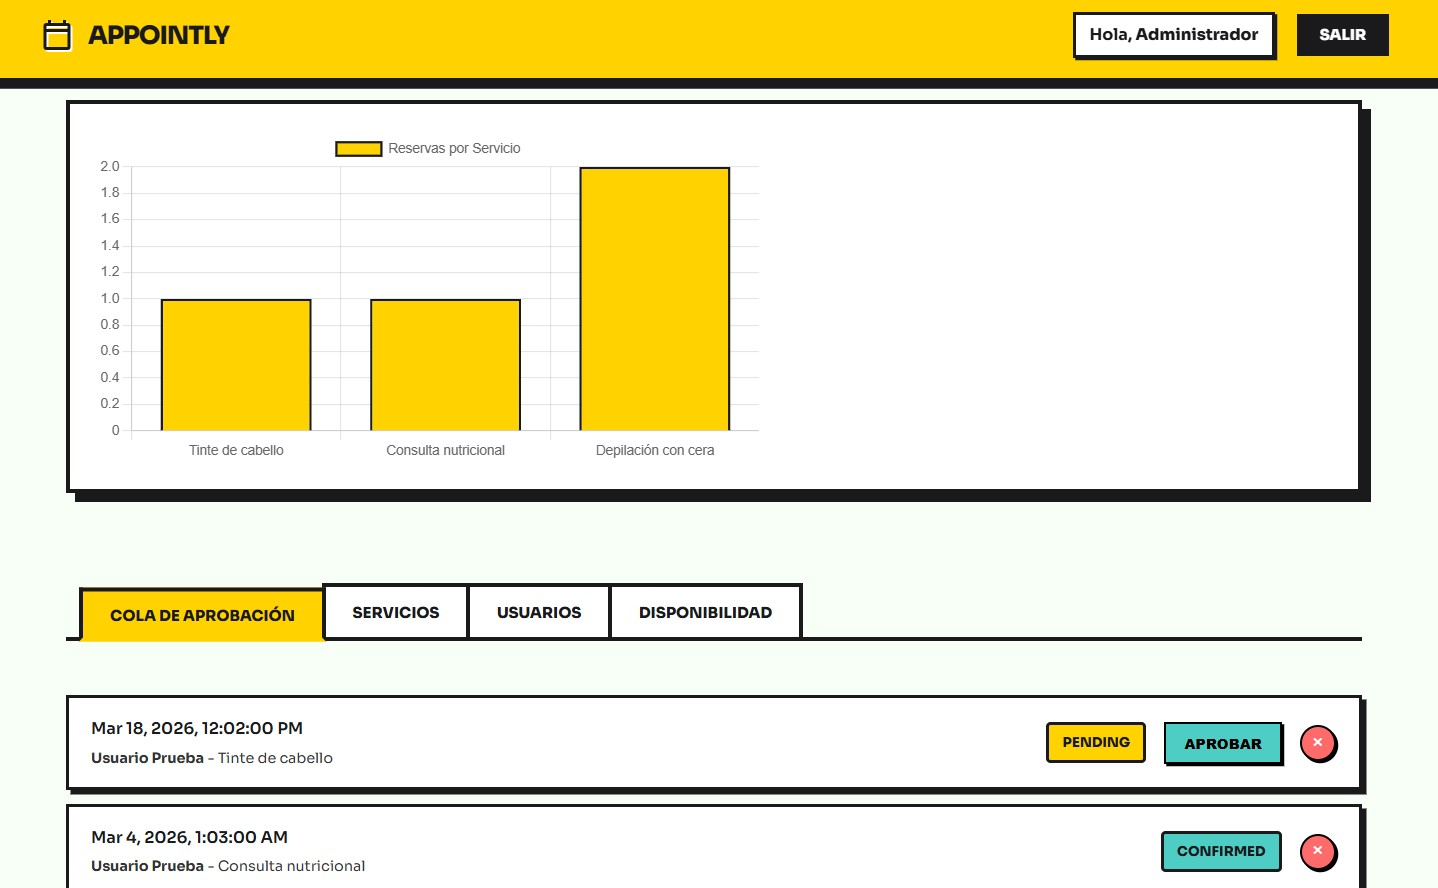
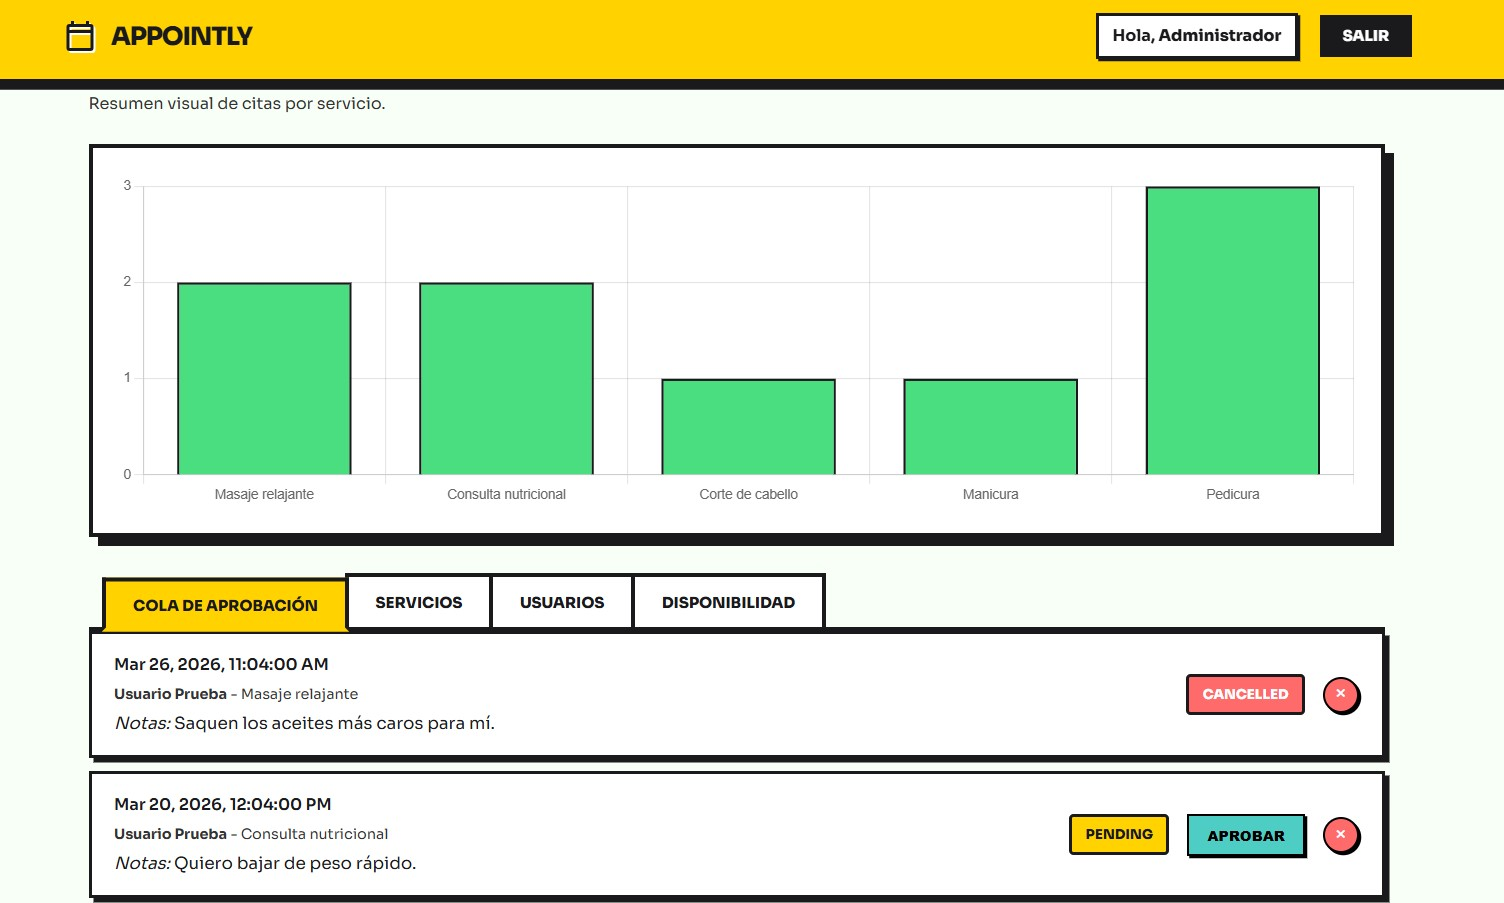
feat: reorganize the admin dashboard layout

diff --git a/frontend/src/app/components/dashboard/dashboard.html b/frontend/src/app/components/dashboard/dashboard.html
@@ -27,99 +27,110 @@
 
         <!-- ADMIN DASHBOARD -->
         <ng-container *ngIf="isAdmin; else userDashboard">
-
-            <!-- Admin Stats & Charts -->
-            <section class="admin-stats">
-                <div class="section-header">
-                    <h2>Panel de Control Admin</h2>
-                    <p>Resumen visual de servicios y actividad.</p>
-                </div>
-                <div class="chart-container-neo">
-                    <canvas baseChart [data]="barChartData" [options]="barChartOptions" [type]="barChartType"></canvas>
-                </div>
-            </section>
-
-            <!-- Admin Navigation Tabs -->
-            <div class="admin-nav-tabs">
-                <button class="tab-btn" [class.active]="activeTab === 'pending'" (click)="setTab('pending')">Cola de
-                    Aprobación</button>
-                <button class="tab-btn" [class.active]="activeTab === 'services'"
-                    (click)="setTab('services')">Servicios</button>
-                <button class="tab-btn" [class.active]="activeTab === 'users'"
-                    (click)="setTab('users')">Usuarios</button>
-                <button class="tab-btn" [class.active]="activeTab === 'availability'"
-                    (click)="setTab('availability')">Disponibilidad</button>
-            </div>
-
-            <!-- Approval Queue -->
-            <section class="admin-section" *ngIf="activeTab === 'pending'">
-                <div class="reservations-list">
-                    <div class="reservation-item" *ngFor="let res of allReservations">
-                        <div class="res-body">
-                            <span class="res-date">{{ res.reservationDateTime | date:'medium' }}</span>
-                            <span class="res-service"><strong>{{ res.user.name }}</strong> - {{ res.service.name
-                                }}</span>
-                            <p class="res-notes" *ngIf="res.notes"><em>Notas:</em> {{ res.notes }}</p>
+            <div class="admin-dashboard-layout">
+                <!-- Admin Stats & Charts (Sidebar) -->
+                <div class="admin-side-panel">
+                    <section class="admin-stats">
+                        <div class="section-header">
+                            <h2>Panel Admin</h2>
+                            <p>Resumen visual de citas por servicio.</p>
                         </div>
-                        <div class="res-actions">
-                            <span class="res-status" [class]="res.status?.toLowerCase()">{{ res.status }}</span>
-                            <button *ngIf="res.status === 'PENDING'" class="btn-confirm"
-                                (click)="updateStatus(res.id!, 'CONFIRMED')">Aprobar</button>
-                            <button class="btn-cancel" (click)="updateStatus(res.id!, 'CANCELLED')">&times;</button>
+                        <div class="chart-container-neo">
+                            <canvas baseChart [data]="barChartData" [options]="barChartOptions"
+                                [type]="barChartType"></canvas>
                         </div>
+                    </section>
+                </div>
+
+                <!-- Admin Main Content -->
+                <div class="admin-main-panel">
+                    <!-- Admin Navigation Tabs -->
+                    <div class="admin-nav-tabs">
+                        <button class="tab-btn" [class.active]="activeTab === 'pending'"
+                            (click)="setTab('pending')">Cola de
+                            Aprobación</button>
+                        <button class="tab-btn" [class.active]="activeTab === 'services'"
+                            (click)="setTab('services')">Servicios</button>
+                        <button class="tab-btn" [class.active]="activeTab === 'users'"
+                            (click)="setTab('users')">Usuarios</button>
+                        <button class="tab-btn" [class.active]="activeTab === 'availability'"
+                            (click)="setTab('availability')">Disponibilidad</button>
                     </div>
-                </div>
-            </section>
 
-            <!-- Admin Services Management -->
-            <section class="admin-grid-section" *ngIf="activeTab === 'services'">
-                <div class="grid-header">
-                    <button class="btn-primary-neo" (click)="openAddServiceModal()">+ Nuevo Servicio</button>
-                </div>
-                <div class="services-grid">
-                    <div class="service-card" *ngFor="let service of services">
-                        <div class="service-info">
-                            <h3>{{ service.name }}</h3>
-                            <p>${{ service.price }} - {{ service.durationInMinutes }} min</p>
+                    <!-- Approval Queue -->
+                    <section class="admin-section" *ngIf="activeTab === 'pending'">
+                        <div class="reservations-list">
+                            <div class="reservation-item" *ngFor="let res of allReservations">
+                                <div class="res-body">
+                                    <span class="res-date">{{ res.reservationDateTime | date:'medium' }}</span>
+                                    <span class="res-service"><strong>{{ res.user.name }}</strong> - {{ res.service.name
+                                        }}</span>
+                                    <p class="res-notes" *ngIf="res.notes"><em>Notas:</em> {{ res.notes }}</p>
+                                </div>
+                                <div class="res-actions">
+                                    <span class="res-status" [class]="res.status?.toLowerCase()">{{ res.status }}</span>
+                                    <button *ngIf="res.status === 'PENDING'" class="btn-confirm"
+                                        (click)="updateStatus(res.id!, 'CONFIRMED')">Aprobar</button>
+                                    <button class="btn-cancel"
+                                        (click)="updateStatus(res.id!, 'CANCELLED')">&times;</button>
+                                </div>
+                            </div>
                         </div>
-                        <div class="res-actions">
-                            <button class="btn-confirm" (click)="openEditServiceModal(service)">Editar</button>
-                            <button class="btn-danger-neo" (click)="onDeleteService(service.id)">Eliminar</button>
-                        </div>
-                    </div>
-                </div>
-            </section>
+                    </section>
 
-            <!-- User Management -->
-            <section class="admin-section" *ngIf="activeTab === 'users'">
-                <div class="reservations-list">
-                    <div class="reservation-item" *ngFor="let user of allUsers">
-                        <div class="res-body">
-                            <span class="res-date">{{ user.name }}</span>
-                            <span class="res-service">{{ user.email }} ({{ user.role }})</span>
+                    <!-- Admin Services Management -->
+                    <section class="admin-grid-section" *ngIf="activeTab === 'services'">
+                        <div class="grid-header">
+                            <button class="btn-primary-neo" (click)="openAddServiceModal()">+ Nuevo Servicio</button>
                         </div>
-                        <button class="btn-danger-neo" *ngIf="user.role !== 'ADMIN'"
-                            (click)="deleteUser(user.id)">Expulsar</button>
-                    </div>
-                </div>
-            </section>
+                        <div class="services-grid">
+                            <div class="service-card" *ngFor="let service of services">
+                                <div class="service-info">
+                                    <h3>{{ service.name }}</h3>
+                                    <p>${{ service.price }} - {{ service.durationInMinutes }} min</p>
+                                </div>
+                                <div class="res-actions">
+                                    <button class="btn-confirm" (click)="openEditServiceModal(service)">Editar</button>
+                                    <button class="btn-danger-neo"
+                                        (click)="onDeleteService(service.id)">Eliminar</button>
+                                </div>
+                            </div>
+                        </div>
+                    </section>
 
-            <!-- Availability Scheduling -->
-            <section class="admin-section" *ngIf="activeTab === 'availability'">
-                <div class="grid-header">
-                    <button class="btn-primary-neo" (click)="showAvailabilityModal = true">+ Añadir Bloque
-                        Horario</button>
-                </div>
-                <div class="reservations-list">
-                    <div class="reservation-item" *ngFor="let avail of availability">
-                        <div class="res-body">
-                            <span class="res-date">{{ avail.availableDate | date }}</span>
-                            <span class="res-service">{{ avail.startTime }} - {{ avail.endTime }}</span>
+                    <!-- User Management -->
+                    <section class="admin-section" *ngIf="activeTab === 'users'">
+                        <div class="reservations-list">
+                            <div class="reservation-item" *ngFor="let user of allUsers">
+                                <div class="res-body">
+                                    <span class="res-date">{{ user.name }}</span>
+                                    <span class="res-service">{{ user.email }} ({{ user.role }})</span>
+                                </div>
+                                <button class="btn-danger-neo" *ngIf="user.role !== 'ADMIN'"
+                                    (click)="deleteUser(user.id)">Expulsar</button>
+                            </div>
                         </div>
-                        <button class="btn-cancel" (click)="onDeleteAvailable(avail.id!)">&times;</button>
-                    </div>
-                </div>
-            </section>
+                    </section>
+
+                    <!-- Availability Scheduling -->
+                    <section class="admin-section" *ngIf="activeTab === 'availability'">
+                        <div class="grid-header">
+                            <button class="btn-primary-neo" (click)="showAvailabilityModal = true">+ Añadir Bloque
+                                Horario</button>
+                        </div>
+                        <div class="reservations-list">
+                            <div class="reservation-item" *ngFor="let avail of availability">
+                                <div class="res-body">
+                                    <span class="res-date">{{ avail.availableDate | date }}</span>
+                                    <span class="res-service">{{ avail.startTime }} - {{ avail.endTime }}</span>
+                                </div>
+                                <button class="btn-cancel" (click)="onDeleteAvailable(avail.id!)">&times;</button>
+                            </div>
+                        </div>
+                    </section>
+
+                </div> <!-- End .admin-main-panel -->
+            </div> <!-- End .admin-dashboard-layout -->
         </ng-container>
 
         <!-- USER DASHBOARD -->

diff --git a/frontend/src/app/components/dashboard/dashboard.component.ts b/frontend/src/app/components/dashboard/dashboard.component.ts
@@ -49,8 +49,12 @@ export class DashboardComponent implements OnInit {
   // Chart Logic
   public barChartOptions: ChartConfiguration['options'] = {
     responsive: true,
-    scales: { x: {}, y: { min: 0 } },
-    plugins: { legend: { display: true } }
+    maintainAspectRatio: false,
+    scales: {
+      x: {},
+      y: { min: 0, ticks: { stepSize: 1 } }
+    },
+    plugins: { legend: { display: false } }
   };
   public barChartType: ChartType = 'bar';
   public barChartData: ChartData<'bar'> = { labels: [], datasets: [] };
@@ -126,7 +130,13 @@ export class DashboardComponent implements OnInit {
     this.barChartData = {
       labels: Object.keys(counts),
       datasets: [
-        { data: Object.values(counts), label: 'Reservas por Servicio', backgroundColor: '#FFD200', borderColor: '#1A1A1D', borderWidth: 2 }
+        {
+          data: Object.values(counts),
+          label: 'Reservas por Servicio',
+          backgroundColor: '#4ade80',  // Neobrutalist Success/Accent color
+          borderColor: '#1A1A1D',
+          borderWidth: 2
+        }
       ]
     };
   }

diff --git a/README.md b/README.md
@@ -18,17 +18,17 @@ A full-stack application for appointment booking and service management.
 ## UI Preview
 
 
-*Consistent high-contrast auth experience.*
+*Consistent high-contrast auth experience*
 ![Login Mockup](assets/login.jpg)
 
 ![Register Mockup](assets/register.jpg)
 
 
-*Client dashboard with service grid.*
+*Client dashboard*
 ![Dashboard Mockup](assets/dashboard_client.jpg)
 
 
-*Admin dashboard.*
+*Admin dashboard*
 ![Reservations Mockup](assets/dashboard_admin.jpg)
 
 
